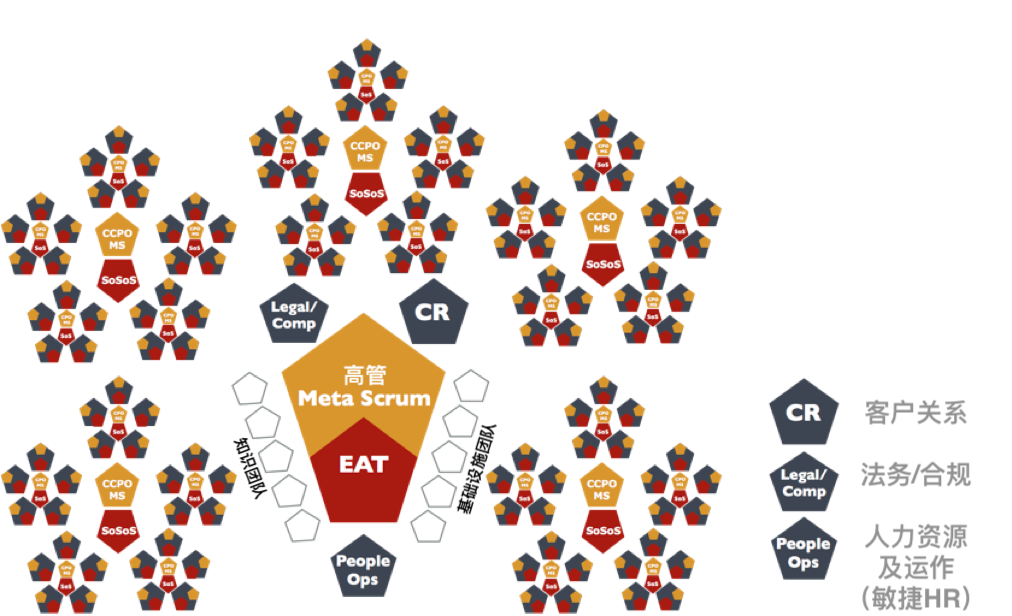
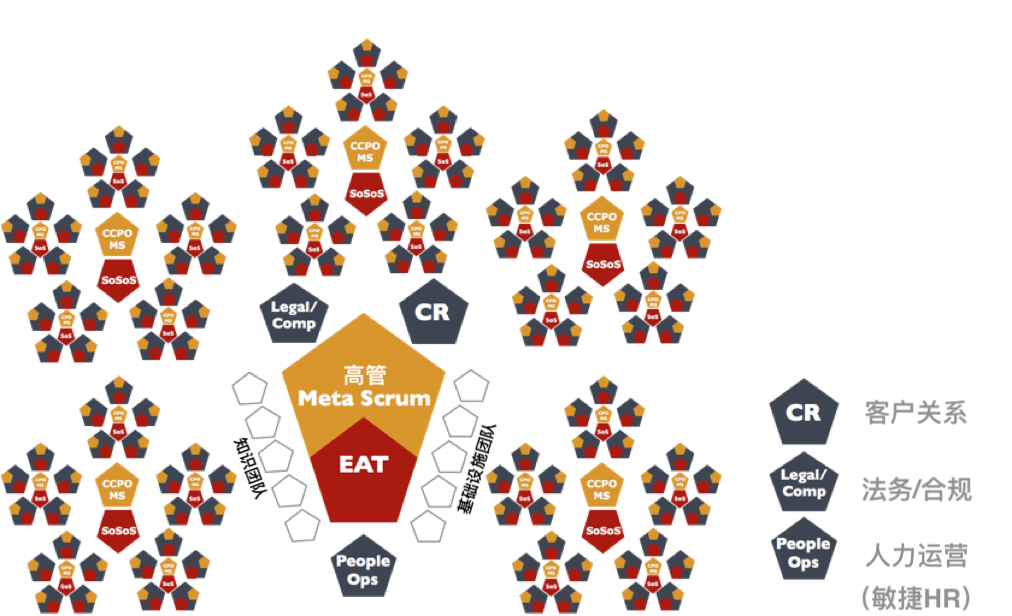
人力资源及运作 -> 人力运营，参考谷歌重新定义工作

Changed region(s): [[0.8577, 0.7403, 0.9802, 0.9562]]

diff --git a/zh-CN/guide-zh-chinese.md b/zh-CN/guide-zh-chinese.md
@@ -299,7 +299,7 @@ Scrum@Scale自由扩展的本性，允许将组织设计为一个个组件，就
 
 在这个组织图中，**知识和基础设施团队**表示一些虚拟的专业团队，这些专家的数量太少，难以保证在每个团队中都配备。他们作为一个组与多个Scrum团队进行整合，遵照服务水平协议，每个专业方面请求都流经同一个PO，他将那些请求转换为透明的已排序的待办清单。值得注意的是，这些团队并不是坐在一起的一群各自为政的个体(这是为什么他们被标记为中空多边形)；这些团队成员都坐在实际的Scrum团队当中，但是他们组成这个虚拟Scrum是为了传播待办清单和过程改进。
 
-**客户关系，法务/合规、人力资源及运作**也包含在这里，因为他们是组织中必要的部分，他们将独立于Scrum团队而存在，其他人将依赖于他们。
+**客户关系，法务/合规、人力运营**也包含在这里，因为他们是组织中必要的部分，他们将独立于Scrum团队而存在，其他人将依赖于他们。
 
 关于EAT和EMS的最后一点：在这个图中，由于有2个成员同时存在于这两个团队中，所以两者看起来是重叠了。在非常小的组织或者实施中，EAT和EMS可以由同一批人组成。
 
